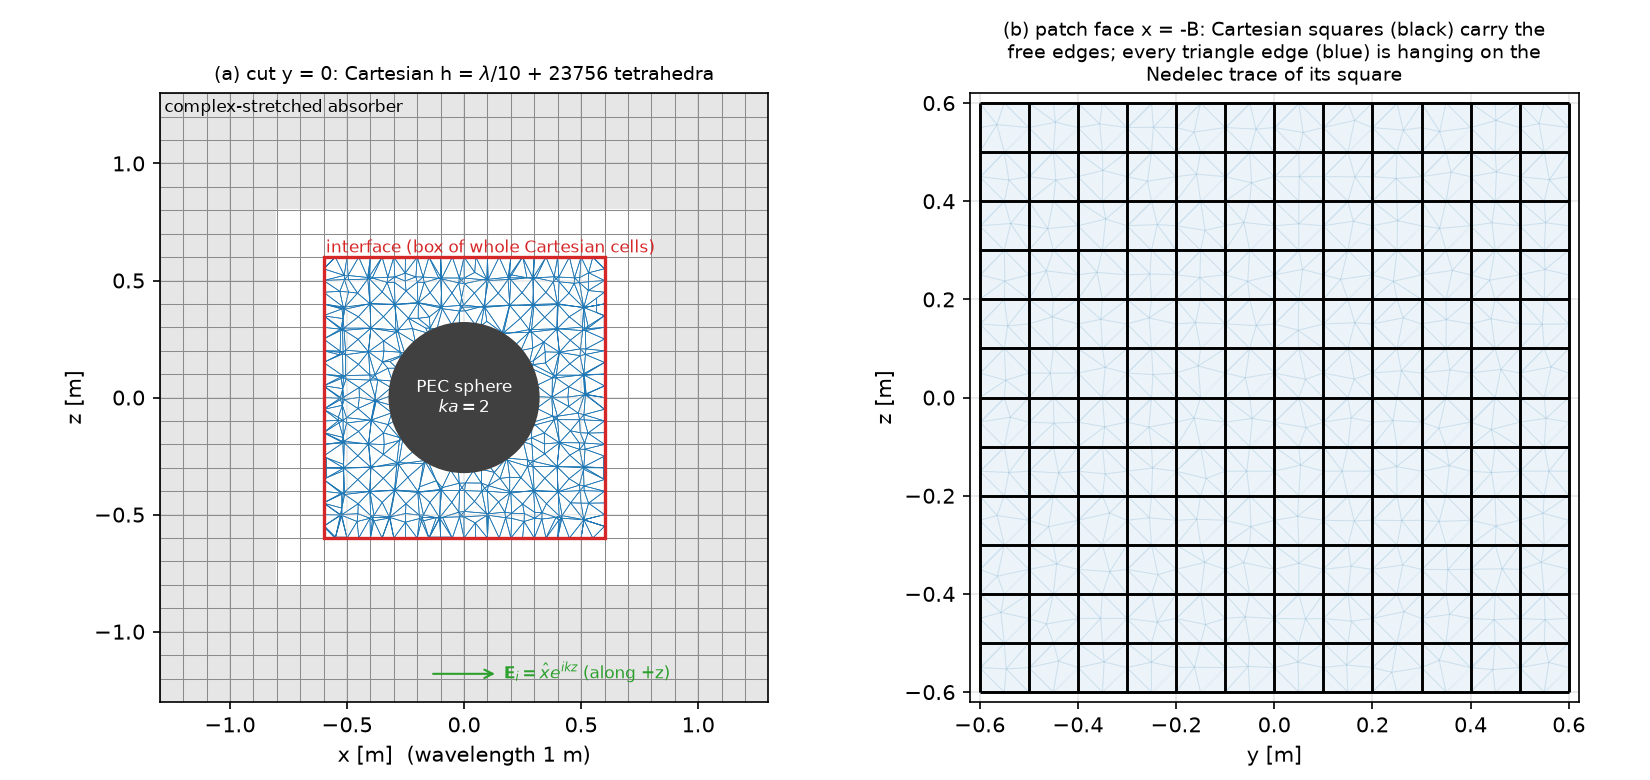
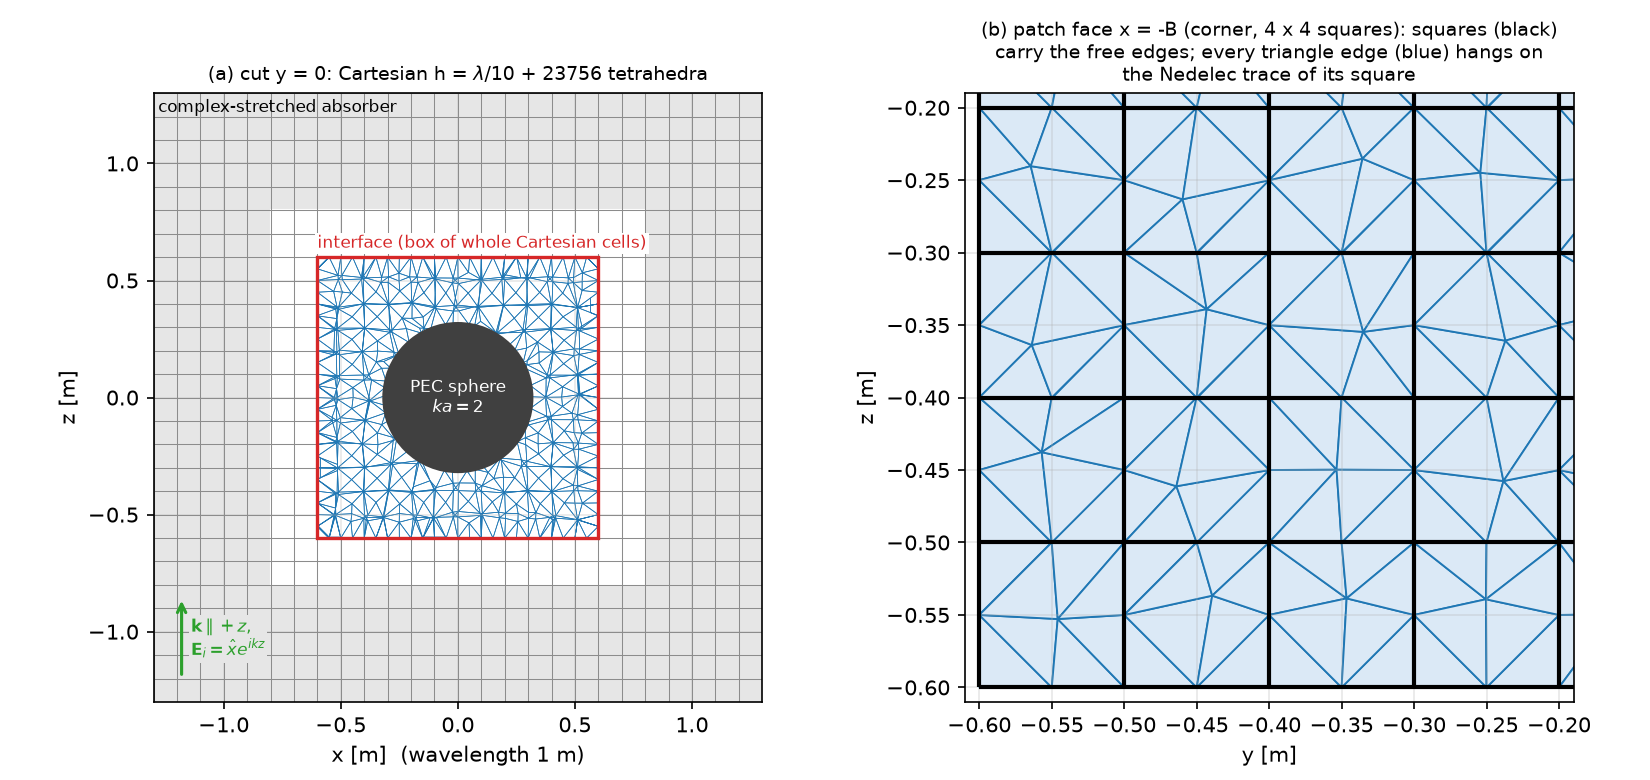
hybrid: physics-guide results and Limits & Failure Modes, study README, final figures

diff --git a/studies/hybrid-cart-tet/plot_figures.py b/studies/hybrid-cart-tet/plot_figures.py
@@ -25,6 +25,7 @@ import matplotlib
 
 matplotlib.use("Agg")
 import matplotlib.pyplot as plt  # noqa: E402
+from matplotlib.ticker import NullFormatter  # noqa: E402
 import numpy as np  # noqa: E402
 
 HERE = os.path.dirname(os.path.abspath(__file__))
@@ -77,6 +78,7 @@ def fig_waveguide():
     Ns = sorted({r["N"] for r in E})
     ax.set_xticks(Ns)
     ax.set_xticklabels([str(n) for n in Ns])
+    ax.xaxis.set_minor_formatter(NullFormatter())
     ax.legend(fontsize=7, loc="lower left")
     ax = axs[1]
     for i, N in enumerate(Ns):
@@ -142,9 +144,11 @@ def fig_sphere():
     axs[2].set_title("far-zone error vs unknowns (equal cost)", fontsize=9)
     for ax in axs[:2]:
         ax.set_xlabel("Cartesian cells per wavelength N")
-        ax.set_xticks([8, 10, 12, 16, 20])
-        ax.set_xticklabels(["8", "10", "12", "16", "20"])
+        ax.set_xticks([8, 10, 12, 16, 20, 24])
+        ax.set_xticklabels(["8", "10", "12", "16", "20", "24"])
+        ax.xaxis.set_minor_formatter(NullFormatter())
     axs[2].set_xlabel("number of unknowns (free edges)")
+    axs[2].xaxis.set_minor_formatter(NullFormatter())
     for ax in axs:
         ax.set_ylabel("relative L2 error of $e_s$")
     axs[0].legend(fontsize=7)

diff --git a/docs/physicsguide_sections/hybrid_cart_tet.md b/docs/physicsguide_sections/hybrid_cart_tet.md
@@ -110,11 +110,71 @@ The interface therefore passes the lowest-order patch test. The remaining mismat
 
 Study: `studies/hybrid-cart-tet/` (`run_study.py`, `plot_figures.py`, Batch jobs `w2hyb-a` … `w2hyb-d`). Figures in `docs/figures.md`.
 
-RESULTS_PLACEHOLDER
+**(a) Interface reflection, TE₁₀ guide (parts A, E, F).** The setup is a vacuum patch in a PEC guide with $a=1$ m and $\lambda=1.4a$; the patch is one cell from the walls, and the semi-discrete frequency domain is used. $|R|$ comes from a two-wave fit with the exact discrete $k_x$, upstream of the patch. Without a patch the fit/absorber floor is $5.5\times10^{-6}$ ($N=8$) down to $3.6\times10^{-8}$ ($N=28$).
+
+The front and back faces of the patch reflect with opposite signs, so $|R|$ at one patch length $L$ oscillates. It vanishes near $L=\lambda_g/2=0.98a$ (Fig. b). The figure of merit is therefore the envelope $\max_L|R(L)|\approx2|r|$ over $L=0.25\ldots1.5a$:
+
+| N (cells per a) | 8 | 12 | 16 | 20 | 24 | 28 | 32 | 40 |
+|---|---|---|---|---|---|---|---|---|
+| Kuhn patch | 3.0e-3 | 8.3e-4 | 1.8e-4 | 3.9e-5 | 8.8e-5 | 1.05e-4 | 1.05e-4 | 9.0e-5 |
+| Delaunay patch | 3.7e-3 | 1.2e-3 | 2.9e-4 | 2.2e-4 | 2.6e-4 | 2.7e-4 | 2.6e-4 | 2.1e-4 |
+| `nearest` trace mutation | 0.27 | 0.93 | 0.16 | 0.18 | 0.075 | – | – | – |
+
+* From $N=8$ to $16$ the reflection falls at order 3–4.
+* Beyond $N\approx20$ it **flattens** at $0.9$–$1.1\times10^{-4}$ (Kuhn) and $2.1$–$2.7\times10^{-4}$ (Delaunay), with an observed order $\lesssim0.6$ up to $N=40$. The Kuhn dip at $N=20$ is a sign change of $r$ between two competing terms, confirmed by the envelope.
+* This is a genuine, weakly convergent interface term, not a solver effect. The pivoted-LU and nested-dissection solves agree to $9\times10^{-9}$ on all 90 cases, and the floor is four orders below it. Its cause is open (Section 8).
+* The mutated traces do not converge ($0.08$–$0.9$), and the `inject` trace reflects 24–100 %.
+
+**(b) PEC cavity (part B).** The cavity is $1\times0.75\times0.5$ m with a vacuum patch over the middle half of each side, and the 6 lowest resonances are compared with the analytic values.
+
+| N | 8 | 12 | 16 | 24 | 32 |
+|---|---|---|---|---|---|
+| lowest mode, pure Cartesian | 9.59e-3 | 4.27e-3 | 2.40e-3 | 1.07e-3 | 6.01e-4 |
+| lowest mode, Kuhn patch | 9.73e-3 | 4.16e-3 | 2.37e-3 | 1.03e-3 | 5.95e-4 |
+| lowest mode, Delaunay patch | 1.00e-2 | 4.36e-3 | 2.48e-3 | 1.08e-3 | 6.21e-4 |
+
+* Observed orders are 1.91–2.09 for all three.
+* The worst of the 6 modes lies within 7 % of the pure-Cartesian error at every $N$ (0.6–6.9 %).
+* No spurious modes appear in the band, which follows from the de Rham property.
+
+**(c) PEC sphere, ka = 2 (part C).** The plane wave $\hat x e^{ikz}$ is applied in the scattered-field formulation: Dirichlet data equal to minus the incident edge voltages on the PEC edges, and complex stretching in the Cartesian frame. The error is the relative L2 error of the scattered edge voltages against the Mie series (`wakis.hybrid.mie_pec`). The Mie series is itself checked: the total tangential field on the sphere is $10^{-15}$, the incident series equals the plane wave to $10^{-11}$, and the far field equals `mie_s1_s2` (PEC limit) to $1.3\times10^{-3}$. The far zone is the Cartesian shell beyond the patch box.
+
+| N (cells / λ) | 8 | 10 | 12 | 16 | 20 | 24 |
+|---|---|---|---|---|---|---|
+| staircase (pure Cartesian), far | 0.69 | 0.49 | 0.33 | 0.29 | 0.24 | 0.20 |
+| hybrid, $h_t\approx h$, far | 0.104 | 0.066 | 0.044 | 0.024 | 0.014 | – |
+| hybrid, $h_t\approx h/2$, far | 0.067 | 0.040 | 0.028 | 0.016 | – | – |
+| tetrahedra in the whole physical region, far | 0.094 | 0.059 | 0.036 | 0.023 | – | – |
+| unknowns: staircase / hybrid / all-tet ($10^3$) | 29 / 40 / 60 | 48 / 67 / 94 | 91 / 120 / 181 | 180 / 221 / 331 | 276 / 329 / – | 502 / – / – |
+
+* **Equal cost against the staircase.** The hybrid at $N=10$ (67k unknowns, 6.6 %) is 3× more accurate than the staircase at $N=24$ (502k unknowns, 20 %), with 7.5× fewer unknowns. At about equal unknowns ($N=16$: 221k against 180k) the error is 12× lower.
+* **Against tetrahedra everywhere.** At equal error the hybrid needs 1.4–1.5× fewer unknowns than the all-tetrahedral baseline: 2.4 % at 221k against 2.3 % at 331k.
+* **Order.** The hybrid far-zone error converges at order ≈ 2.2 ($N=8\to20$). Refining only the patch ($h_t\approx h/2$) helps most at coarse $N$.
+* **Near zone.** It flattens at 2.8–3.3 % for $h_t=h$, because the polyhedral sphere surface is resolved at $h_t$.
+
+**(d) Time domain (part D, N = 10, PEC box around the sphere geometry).**
+
+* $\lambda_\text{tet}/\lambda_\text{cart}=35.7$, and the hybrid has $\lambda_\max=0.946\,\lambda_\text{tet}$, below the bound. $\Delta t$ is therefore 5.8× smaller than for the pure-Cartesian staircase grid at the same $h$. The tetrahedra ($h_t\approx h$, consistent mass, slivers) set the step.
+* The energy varies by $9\times10^{-15}$ (relative peak to peak) over 20 000 steps.
+* The cost per step is 74 ms (LU) or 91 ms (Chebyshev, degree 204) for 33 600 unknowns, against 0.20 ms for the 15 000-unknown Cartesian grid: 2.2–2.7 µs against 13 ns per unknown-step on one core. The consistent-mass solve on the 24 000-row coupled block dominates.
+* `mass_tol=1e-4` cuts the Chebyshev degree 3.8× and the step time 3.4× (measured on the test mesh). The scheme stays exactly energy conserving for the modified mass, and the $\mathbf M$-energy stays within $1.1\times10^{-6}$.
+
+D16_PLACEHOLDER
 
 #### 8. Limits & Failure Modes
 
-LIMITS_PLACEHOLDER
+* **Interface reflection floor (open).** The TE₁₀ reflection of an empty patch falls fast (order 3–4) to about $10^{-4}$ at 16–20 cells per guide width, then flattens: $0.9$–$1.1\times10^{-4}$ (Kuhn) and $2$–$3\times10^{-4}$ (Delaunay) up to 40 cells, with observed order $\lesssim0.6$. The cause is not identified.
+  * A row-wise truncation check, with exact TE₁₀ edge voltages inserted, shows $O(1)$ relative residuals: on the interface Cartesian rows 0.14 (Kuhn) and 0.23–0.30 (Delaunay), constant in $h$, and on deep tetrahedral rows as well. Whitney Galerkin rows converge through Galerkin orthogonality, not row-wise. The Cartesian bulk is $O(h^2)$.
+  * Candidates: the non-conforming tangential trace (the Whitney interpolant of the bilinear hexahedral trace, equal circulations but a pointwise $O(1)$ basis-function jump), and the meeting of a lumped-quadrature (FIT) side with a consistent-mass Galerkin side.
+  * Remedies to test: a pyramid transition layer (Rylander & Bondeson 2000), which is $H(\mathrm{curl})$-conforming; a mortar projection instead of the nodal trace; a lumped (Voronoi) tetrahedral mass on well-centred meshes.
+  * For the scattering accuracy reported here (≥ 1 %), the floor is not the limiting error. Applications that need interface reflections below $10^{-4}$ should not rely on milestone 1.
+* **Time step and cost.** The global step is set by the tetrahedra: 5.8× smaller than the Cartesian step at $h_t\approx h$, because of the consistent mass and the Delaunay slivers (normalised volume down to $10^{-3}$). Each step needs a solve with the coupled mass block (Chebyshev, degree ≈ 160–200 at tol $10^{-16}$, or ≈ 45 at $10^{-4}$). That solve makes a hybrid step about 200× more expensive per unknown than a Cartesian step on one core. The hybrid wins on unknowns for a given accuracy (frequency domain, Section 7c), not yet on time-domain work. Next: local time stepping with the Cartesian region at its own step (`wakis.unstructured.lts`), a lumped tetrahedral mass where the Voronoi duals are positive, and better-shaped meshes (isosurface stuffing, Labelle & Shewchuk 2007).
+* **Geometry of the patch.** There is one axis-aligned box of whole Cartesian cells, at least one cell from every outer wall. Patches touching walls or symmetry planes, several patches, and nesting inside `wakis.subgrid3d` patches are not implemented. The patch surface carries no finer tangential field than the Cartesian squares: finer triangles on the box surface are slaved to the bilinear trace.
+* **Mesher.** `delaunay_box_mesh` handles a box with one sphere (hole or tagged inclusion). Other shapes need an external mesh whose box-surface triangles each lie inside one Cartesian square; `box_surface_check` enforces this. gmsh is GPL and may be used only as an external tool. Delaunay degeneracies are resolved by flips, and any remaining degenerate cell raises. Mesh quality is not guaranteed.
+* **Materials and boundaries.** The tetrahedra may be vacuum, isotropic $\varepsilon,\mu$ per tag, or PEC holes; lossy and dispersive tetrahedra raise. The Cartesian cells use per-cell $\varepsilon,\mu$ and PEC (staircase). There is no time-domain absorber (no CPML) in the hybrid. Absorbers exist only as complex stretching in the frequency domain, in the Cartesian frame. There are no TF/SF sources, ports or near-to-far transforms.
+* **Frequency-domain solves.** These are direct (SuperLU with a geometric nested-dissection order, no pivoting, a residual check and two refinement steps). Memory grows like the 3D fill: 36 GB for 565k unknowns ($N=16$, $h_t=h/2$). Larger problems need an iterative solver with a good preconditioner.
+* **Not covered by the energy proof.** Any non-symmetric coupling: the `asym` mutation drifts. A Chebyshev tolerance $\ge1$ would make the polynomial lose positivity; the code uses $\le10^{-2}$ in tests.
+* **Performance and parallelism.** CPU only, global CSR, one core. There is no GPU, MPI or adjoint driver, beyond the exact `linear_step_T`.
 
 #### 9. References
 

diff --git a/studies/hybrid-cart-tet/README.md b/studies/hybrid-cart-tet/README.md
@@ -1,0 +1,37 @@
+# Hybrid Cartesian / tetrahedral FIT (`wakis.hybrid`), milestone 1
+
+A tetrahedral box patch inside the Cartesian FIT grid. The coupling uses hanging tetrahedral edges on the hexahedral Nédélec trace of the Cartesian squares. Derivation, proofs, results and limits are in [`docs/physicsguide_sections/hybrid_cart_tet.md`](../../docs/physicsguide_sections/hybrid_cart_tet.md); figures are catalogued in `docs/figures.md`.
+
+## Reproduce
+
+All runs go to Cloud Batch. The local tests are `tests/test_105_hybrid_cart_tet.py` (16 tests, about 8 s).
+
+```bash
+# from the repo root of the CEM project, worktree WT
+bin/batch-run JOB WT studies/hybrid-cart-tet --machine n2-highmem-16 -- \
+    bash -c "python studies/hybrid-cart-tet/run_study.py --parts A --procs 14"
+# parts: A (TE10 |R|, fixed patch length), B (cavity), C (PEC sphere; --only 8,10,12 / 16,20,24),
+#        D (time domain: lambda bounds, cost, energy; --only 10 / 16), E and F (patch-length envelope,
+#        N <= 24 and N = 28..40); extend_A.py: part A at N = 20, 24, 28
+python studies/hybrid-cart-tet/plot_figures.py   # N = 10 solve for the mesh/field figures (~2 GB);
+                                                 # HYBRID_SKIP_SOLVE=1 renders only the data figures
+```
+
+| Part | Batch job(s) | Machine | Result file |
+|---|---|---|---|
+| A | `w2hyb-a`, `w2hyb-a2`, `w2hyb-a4` | n2-highmem-16 | `results_A.json`, `results_A_8-12-16.json`, `results_A_ext.json` |
+| B | `w2hyb-b` | n2-standard-16 | `results_B.json` |
+| C | `w2hyb-c4`, `w2hyb-c5` | n2-highmem-16 / -32 | `results_C_8-10-12.json`, `results_C_16-20-24.json` |
+| D | `w2hyb-d2`, `w2hyb-d3` | n2-highmem-8 | `results_D_10.json`, `results_D_16.json` |
+| E, F | `w2hyb-e` (cross-checked by `w2hyb-e3`), `w2hyb-f` | n2-highmem-32 | `results_E.json`, `results_E_fine.json` |
+| figures | `w2hyb-fig3` | n2-highmem-8 | `figures/fig_hybrid_*.png` |
+
+The first C and D jobs (`w2hyb-c1`/`-c2`/`-c3`, `w2hyb-d`) were stopped: their direct solves with the MMD ordering were too slow. The geometric nested-dissection ordering now in `solve_frequency` replaced it, and it agrees with the pivoted MMD solve to 9e-9 on all 90 cases of part E.
+
+## Headline numbers
+
+* **Discrete exactness** (tests): de Rham sequence $10^{-15}$, interface flux bookkeeping $10^{-15}$, energy drift $<10^{-15}$ (200 steps) and $9\times10^{-15}$ (20 000 steps), dot-product test $10^{-16}$, $\lambda_\max\le\max(\lambda_\text{cart},\lambda_\text{tet})$. Every check has a mutation that fails it.
+* **Cavity.** Second order (observed 1.91–2.09). The hybrid's error is within 7 % of the pure-Cartesian error at the same $h$.
+* **PEC sphere, ka = 2, far zone.** Hybrid 6.6 % at 67k unknowns against 20 % for the staircase at 502k. At about equal unknowns the error is 12× lower (2.4 % against 29 %). All-tetrahedral meshes need 1.4–1.5× more unknowns than the hybrid at equal error.
+* **Open.** The TE₁₀ interface reflection flattens at about $10^{-4}$ (Kuhn) and $2$–$3\times10^{-4}$ (Delaunay) beyond 20 cells per guide width.
+* **Open.** Time-domain work: $\Delta t$ is 5.8× smaller than the Cartesian step and each step costs about 200× more per unknown (consistent-mass solve).

diff --git a/docs/figures.md b/docs/figures.md
@@ -281,7 +281,7 @@ Generated by `studies/hybrid-cart-tet/plot_figures.py` from `studies/hybrid-cart
 
 ![Hybrid cavity](../studies/hybrid-cart-tet/figures/fig_hybrid_cavity.png)
 
-* **Figure (`studies/hybrid-cart-tet/figures/fig_hybrid_cavity.png`)**: Relative error of the PEC-cavity resonances (1 × 0.75 × 0.5 m, analytic reference) against h for the pure Cartesian grid and the hybrid with a Kuhn or Delaunay vacuum patch over the middle half of each side. (a) Lowest mode, (b) rms over the 6 lowest. All three are second order (observed 1.9–2.1) and within 5 % of each other.
+* **Figure (`studies/hybrid-cart-tet/figures/fig_hybrid_cavity.png`)**: Relative error of the PEC-cavity resonances (1 × 0.75 × 0.5 m, analytic reference) against h for the pure Cartesian grid and the hybrid with a Kuhn or Delaunay vacuum patch over the middle half of each side. (a) Lowest mode, (b) rms over the 6 lowest. All three are second order (observed 1.9–2.1) and within 7 % of each other (worst of 6 modes).
 
 ![Hybrid PEC sphere](../studies/hybrid-cart-tet/figures/fig_hybrid_sphere.png)
 
